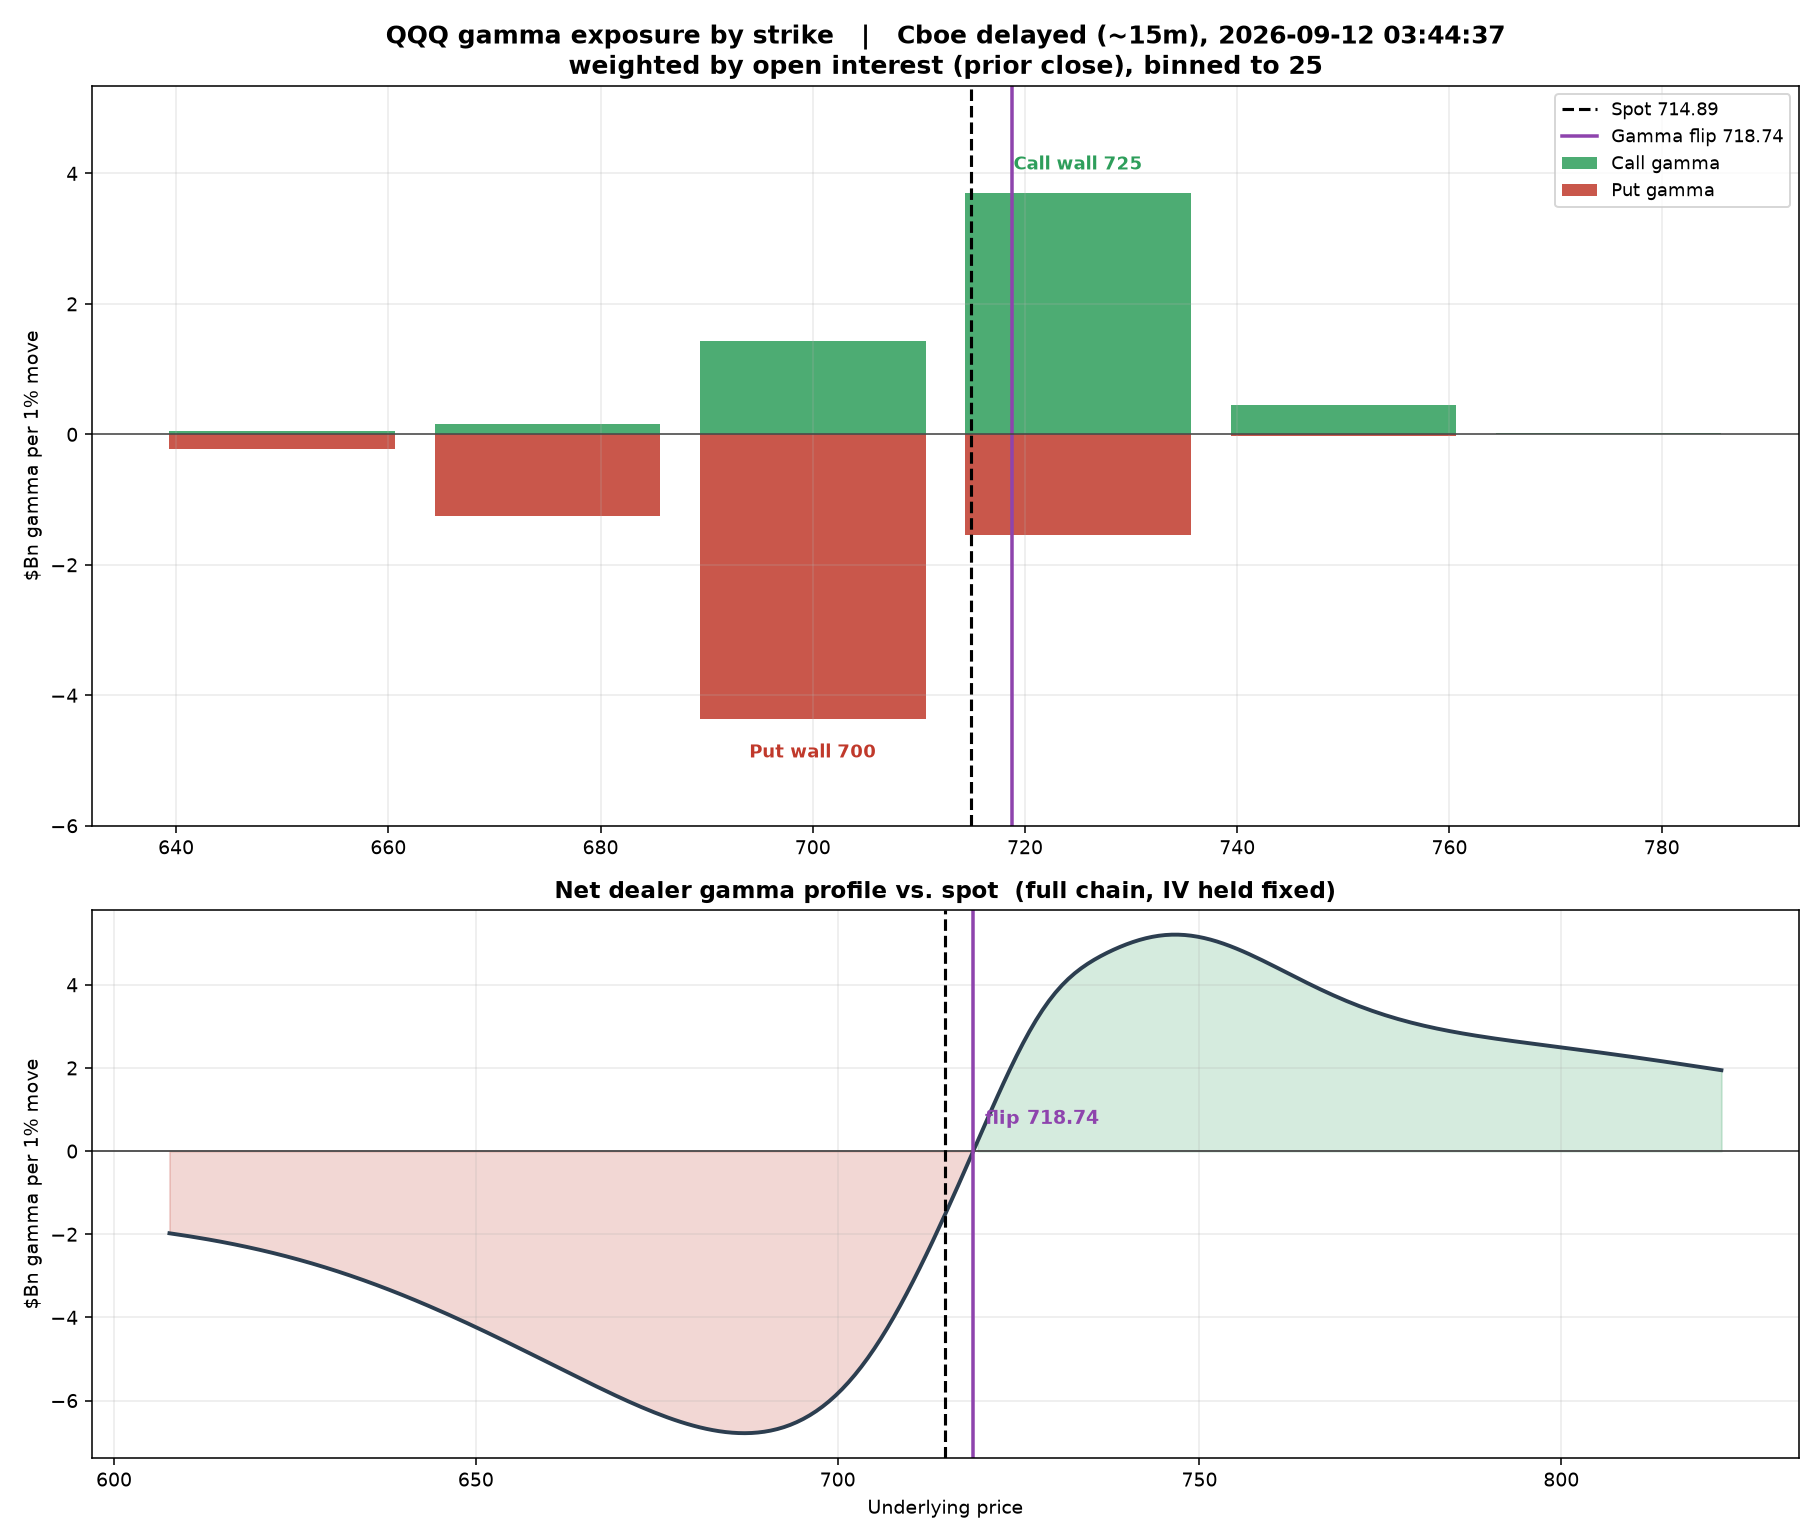
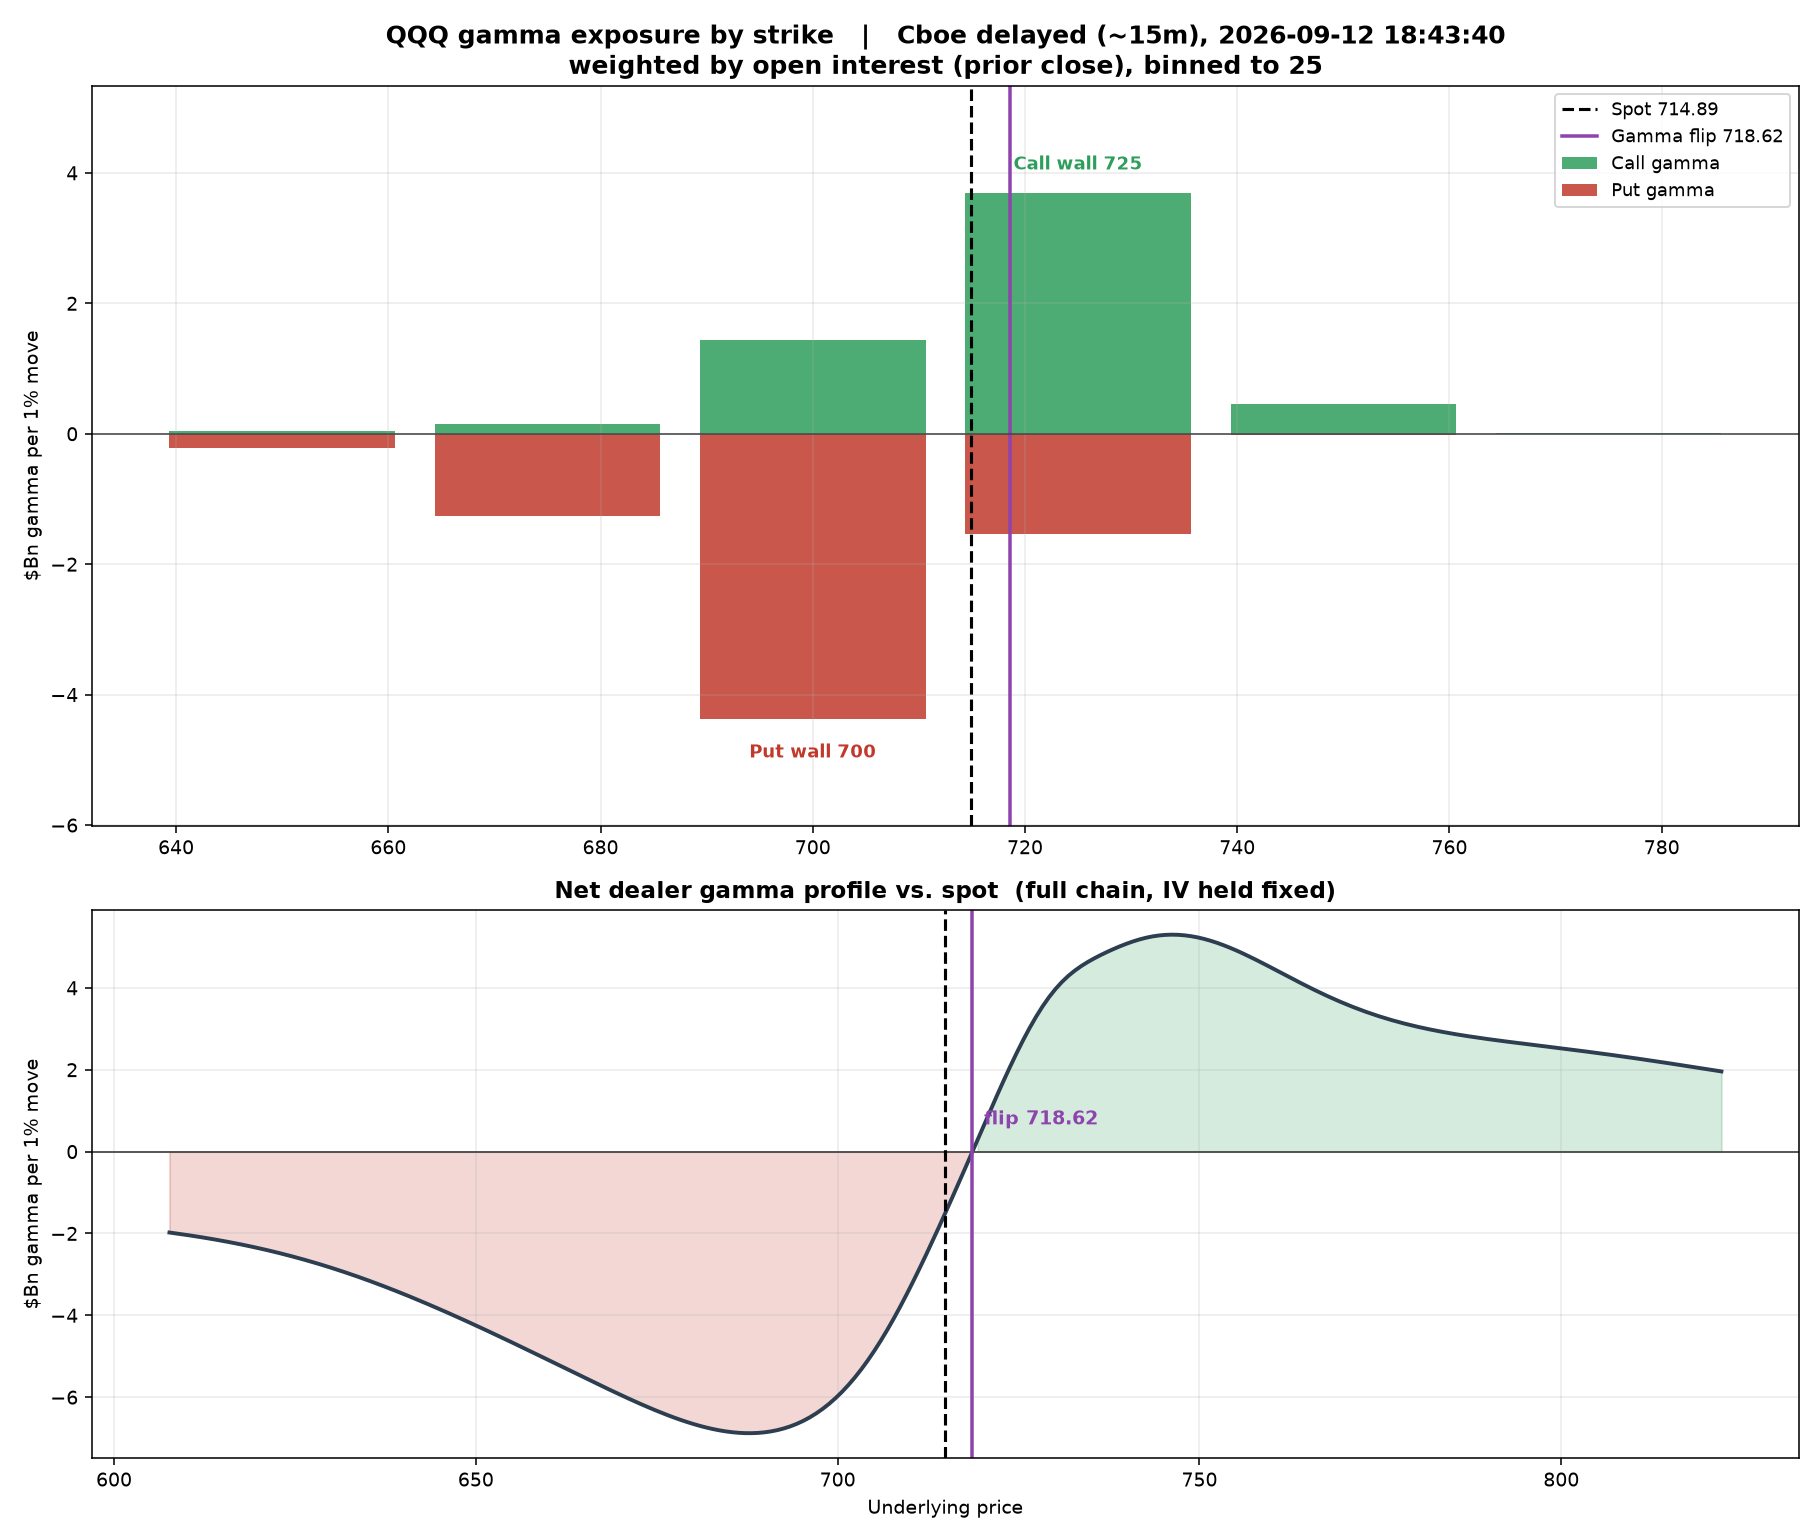
capture 2026-09-12 23:40 UTC

diff --git a/docs/index.html b/docs/index.html
@@ -78,7 +78,7 @@ footer b{color:var(--ink-2);font-weight:600}
 <div class="wrap">
   <header>
     <h1>GEX Monitor</h1>
-    <p class="sub">Cboe feed 2026-09-12 10:14:30 &middot; built 2026-09-12 11:35 UTC</p>
+    <p class="sub">Cboe feed 2026-09-12 18:49:37 &middot; built 2026-09-12 23:40 UTC</p>
   </header>
   
 <section class="card">
@@ -89,9 +89,9 @@ footer b{color:var(--ink-2);font-weight:600}
   </div>
   <div class="grid">
     <div class="metric"><div class="k">Gamma flip</div>
-      <div class="v">7,677.12<small> +0.26% vs spot</small></div></div>
+      <div class="v">7,676.41<small> +0.25% vs spot</small></div></div>
     <div class="metric"><div class="k">Net GEX</div>
-      <div class="v">-14.59<small> $Bn / 1%</small></div></div>
+      <div class="v">-14.62<small> $Bn / 1%</small></div></div>
     <div class="metric"><div class="k">Call wall</div>
       <div class="v">7,750.00</div></div>
     <div class="metric"><div class="k">Put wall</div>
@@ -99,13 +99,13 @@ footer b{color:var(--ink-2);font-weight:600}
   </div>
   <div class='coil'><svg width='13' height='13' viewBox='0 0 16 16' aria-hidden='true'><circle cx='8' cy='8' r='7' fill='none' stroke='currentColor' stroke-width='1.5'/><path d='M8 4.5v4.2M8 11.2v.6' stroke='currentColor' stroke-width='1.5' stroke-linecap='round'/></svg><span>Spot is within 0.5% of the flip &mdash; regime boundary, expect chop.</span></div>
   <div class="sparkwrap">
-    <div class="k">Flip distance from spot &middot; last 7 obs</div>
-    <svg class="spark" viewBox="0 0 260 44" preserveAspectRatio="none" role="img" aria-label="trend, 7 observations, latest +0.26%"><line x1="0" y1="31.5" x2="260" y2="31.5" class="spark-zero"/><polyline points="4.0,40.0 46.0,37.2 88.0,37.4 130.0,24.5 172.0,15.9 214.0,4.0 256.0,23.3" class="spark-line"/><circle cx="256.0" cy="23.3" r="3.5" class="spark-dot"/></svg>
+    <div class="k">Flip distance from spot &middot; last 8 obs</div>
+    <svg class="spark" viewBox="0 0 260 44" preserveAspectRatio="none" role="img" aria-label="trend, 8 observations, latest +0.25%"><line x1="0" y1="31.5" x2="260" y2="31.5" class="spark-zero"/><polyline points="4.0,40.0 40.0,37.2 76.0,37.4 112.0,24.5 148.0,15.9 184.0,4.0 220.0,23.3 256.0,23.6" class="spark-line"/><circle cx="256.0" cy="23.6" r="3.5" class="spark-dot"/></svg>
   </div>
   <details><summary>Recent history</summary>
     <table><thead><tr><th>Feed date</th><th>Spot</th><th>Flip</th>
       <th>Net GEX $Bn</th><th>Regime</th></tr></thead>
-      <tbody><tr><td>2026-09-12</td><td>7,656.98</td><td>7,677.12</td><td>-14.59</td><td>negative</td></tr><tr><td>2026-09-11</td><td>7,591.70</td><td>7,658.57</td><td>-22.28</td><td>negative</td></tr><tr><td>2026-09-10</td><td>7,636.36</td><td>7,674.62</td><td>-35.35</td><td>negative</td></tr><tr><td>2026-09-09</td><td>7,673.52</td><td>7,690.76</td><td>-46.49</td><td>negative</td></tr><tr><td>2026-09-08</td><td>7,718.60</td><td>7,704.08</td><td>-14.14</td><td>negative</td></tr><tr><td>2026-09-07</td><td>7,718.60</td><td>7,704.53</td><td>0.79</td><td>positive</td></tr><tr><td>2026-09-05</td><td>7,718.60</td><td>7,697.68</td><td>9.26</td><td>positive</td></tr></tbody></table>
+      <tbody><tr><td>2026-09-12</td><td>7,656.98</td><td>7,676.41</td><td>-14.62</td><td>negative</td></tr><tr><td>2026-09-12</td><td>7,656.98</td><td>7,677.12</td><td>-14.59</td><td>negative</td></tr><tr><td>2026-09-11</td><td>7,591.70</td><td>7,658.57</td><td>-22.28</td><td>negative</td></tr><tr><td>2026-09-10</td><td>7,636.36</td><td>7,674.62</td><td>-35.35</td><td>negative</td></tr><tr><td>2026-09-09</td><td>7,673.52</td><td>7,690.76</td><td>-46.49</td><td>negative</td></tr><tr><td>2026-09-08</td><td>7,718.60</td><td>7,704.08</td><td>-14.14</td><td>negative</td></tr><tr><td>2026-09-07</td><td>7,718.60</td><td>7,704.53</td><td>0.79</td><td>positive</td></tr></tbody></table>
   </details>
   <details><summary>Chart</summary><div class='chartbox'><img src='charts/SPX.png' alt='SPX gamma exposure by strike' loading='lazy'></div></details>
 </section>
@@ -145,9 +145,9 @@ footer b{color:var(--ink-2);font-weight:600}
   </div>
   <div class="grid">
     <div class="metric"><div class="k">Gamma flip</div>
-      <div class="v">718.74<small> +0.54% vs spot</small></div></div>
+      <div class="v">718.62<small> +0.52% vs spot</small></div></div>
     <div class="metric"><div class="k">Net GEX</div>
-      <div class="v">-1.70<small> $Bn / 1%</small></div></div>
+      <div class="v">-1.71<small> $Bn / 1%</small></div></div>
     <div class="metric"><div class="k">Call wall</div>
       <div class="v">725.00</div></div>
     <div class="metric"><div class="k">Put wall</div>
@@ -155,13 +155,13 @@ footer b{color:var(--ink-2);font-weight:600}
   </div>
   
   <div class="sparkwrap">
-    <div class="k">Flip distance from spot &middot; last 7 obs</div>
-    <svg class="spark" viewBox="0 0 260 44" preserveAspectRatio="none" role="img" aria-label="trend, 7 observations, latest +0.54%"><polyline points="4.0,33.4 46.0,29.6 88.0,40.0 130.0,4.5 172.0,4.0 214.0,23.8 256.0,13.9" class="spark-line"/><circle cx="256.0" cy="13.9" r="3.5" class="spark-dot"/></svg>
+    <div class="k">Flip distance from spot &middot; last 8 obs</div>
+    <svg class="spark" viewBox="0 0 260 44" preserveAspectRatio="none" role="img" aria-label="trend, 8 observations, latest +0.52%"><polyline points="4.0,33.4 40.0,29.6 76.0,40.0 112.0,4.5 148.0,4.0 184.0,23.8 220.0,13.9 256.0,14.9" class="spark-line"/><circle cx="256.0" cy="14.9" r="3.5" class="spark-dot"/></svg>
   </div>
   <details><summary>Recent history</summary>
     <table><thead><tr><th>Feed date</th><th>Spot</th><th>Flip</th>
       <th>Net GEX $Bn</th><th>Regime</th></tr></thead>
-      <tbody><tr><td>2026-09-12</td><td>714.89</td><td>718.74</td><td>-1.70</td><td>negative</td></tr><tr><td>2026-09-11</td><td>712.64</td><td>715.26</td><td>-3.58</td><td>negative</td></tr><tr><td>2026-09-10</td><td>713.57</td><td>718.64</td><td>-1.68</td><td>negative</td></tr><tr><td>2026-09-09</td><td>714.96</td><td>719.97</td><td>-1.39</td><td>negative</td></tr><tr><td>2026-09-08</td><td>718.51</td><td>719.15</td><td>-0.97</td><td>negative</td></tr><tr><td>2026-09-07</td><td>717.50</td><td>719.43</td><td>-0.97</td><td>negative</td></tr><tr><td>2026-09-05</td><td>717.50</td><td>718.96</td><td>-0.43</td><td>negative</td></tr></tbody></table>
+      <tbody><tr><td>2026-09-12</td><td>714.89</td><td>718.62</td><td>-1.71</td><td>negative</td></tr><tr><td>2026-09-12</td><td>714.89</td><td>718.74</td><td>-1.70</td><td>negative</td></tr><tr><td>2026-09-11</td><td>712.64</td><td>715.26</td><td>-3.58</td><td>negative</td></tr><tr><td>2026-09-10</td><td>713.57</td><td>718.64</td><td>-1.68</td><td>negative</td></tr><tr><td>2026-09-09</td><td>714.96</td><td>719.97</td><td>-1.39</td><td>negative</td></tr><tr><td>2026-09-08</td><td>718.51</td><td>719.15</td><td>-0.97</td><td>negative</td></tr><tr><td>2026-09-07</td><td>717.50</td><td>719.43</td><td>-0.97</td><td>negative</td></tr></tbody></table>
   </details>
   <details><summary>Chart</summary><div class='chartbox'><img src='charts/QQQ.png' alt='QQQ gamma exposure by strike' loading='lazy'></div></details>
 </section>
